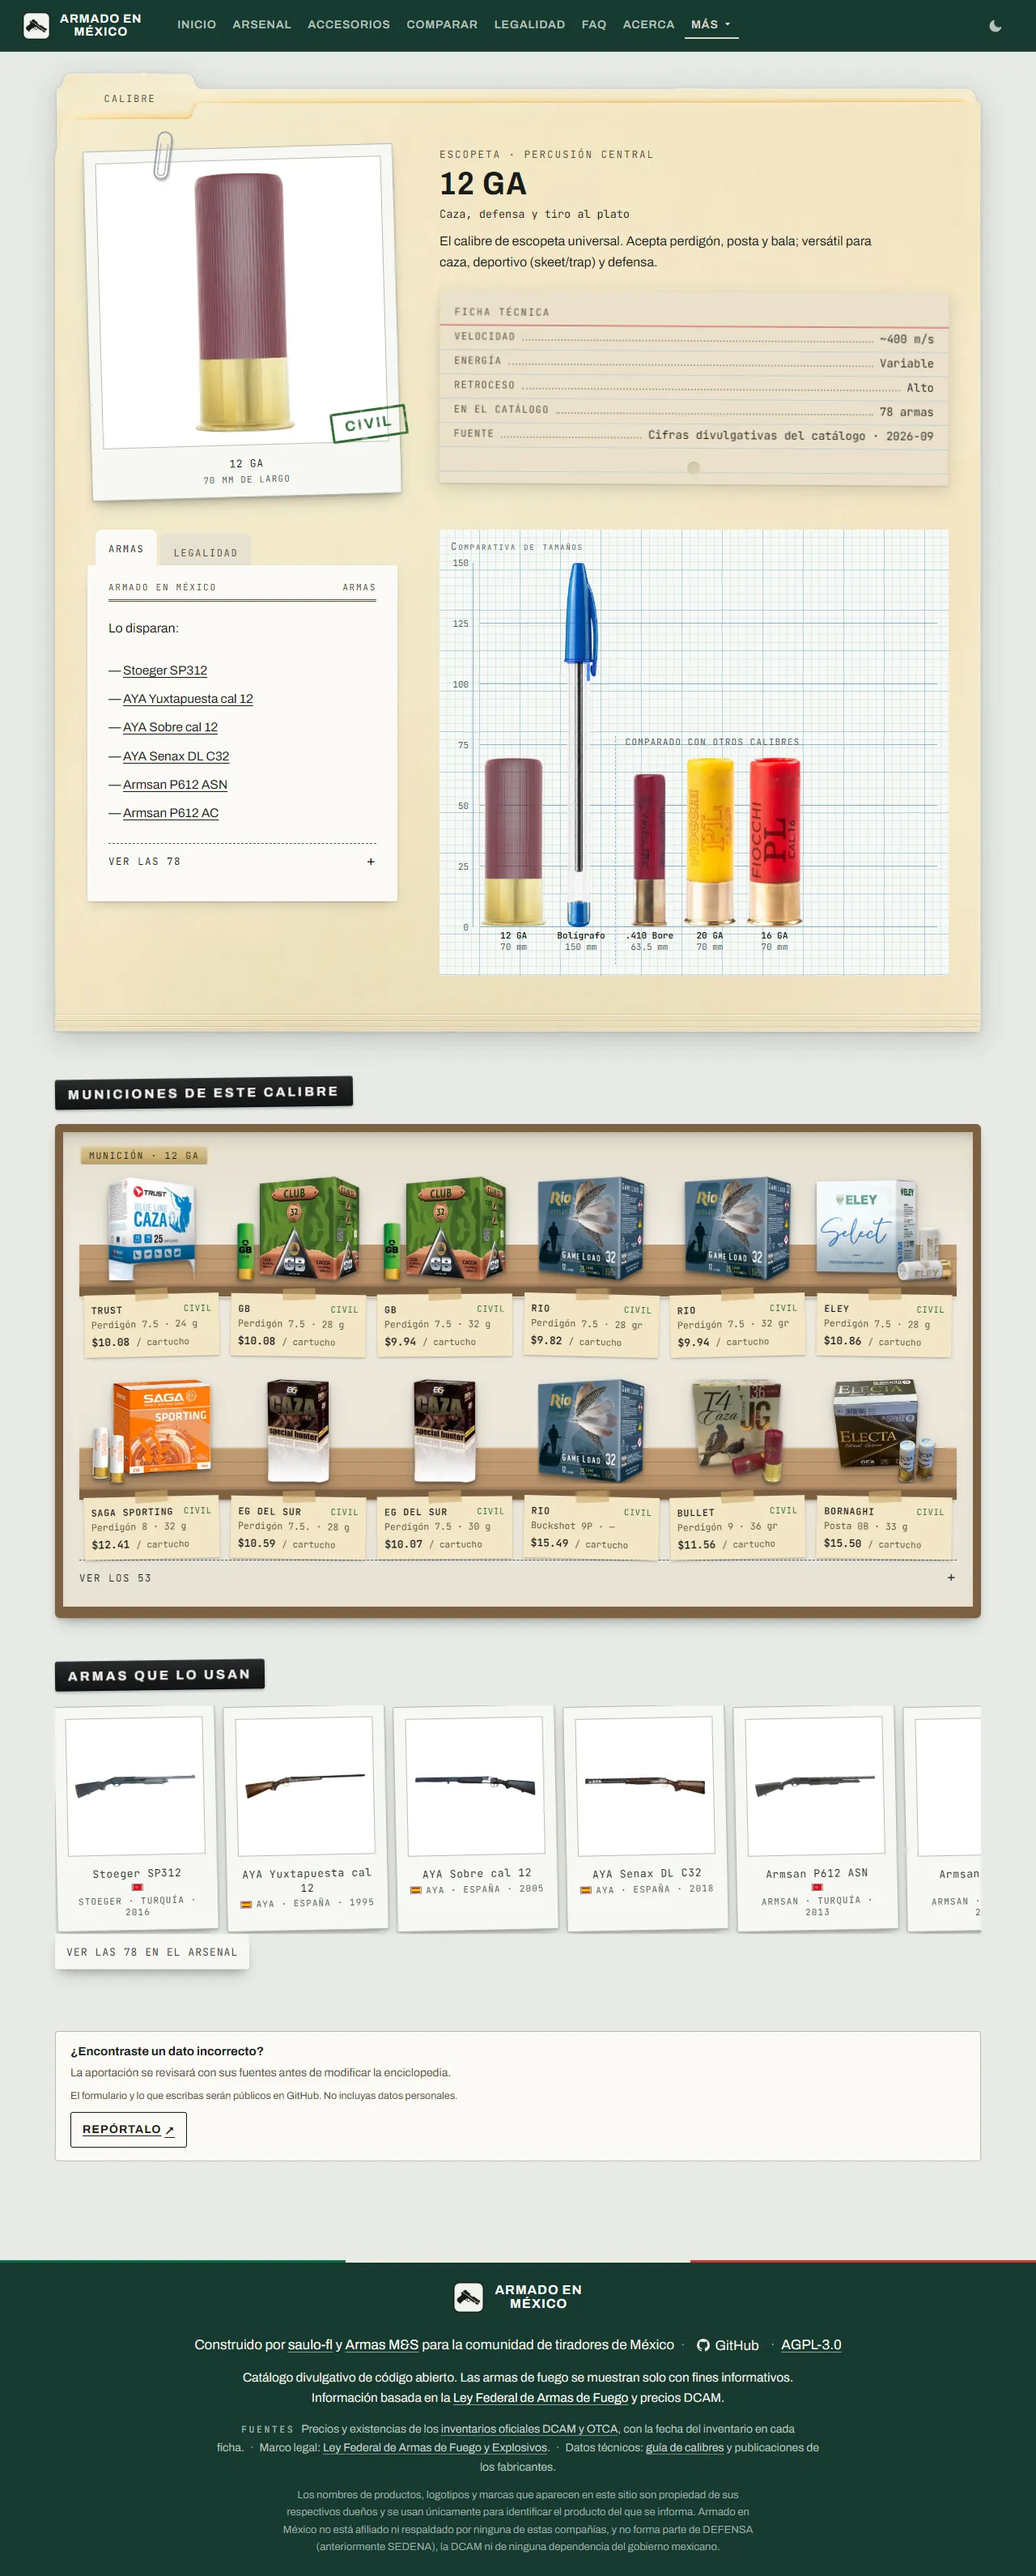
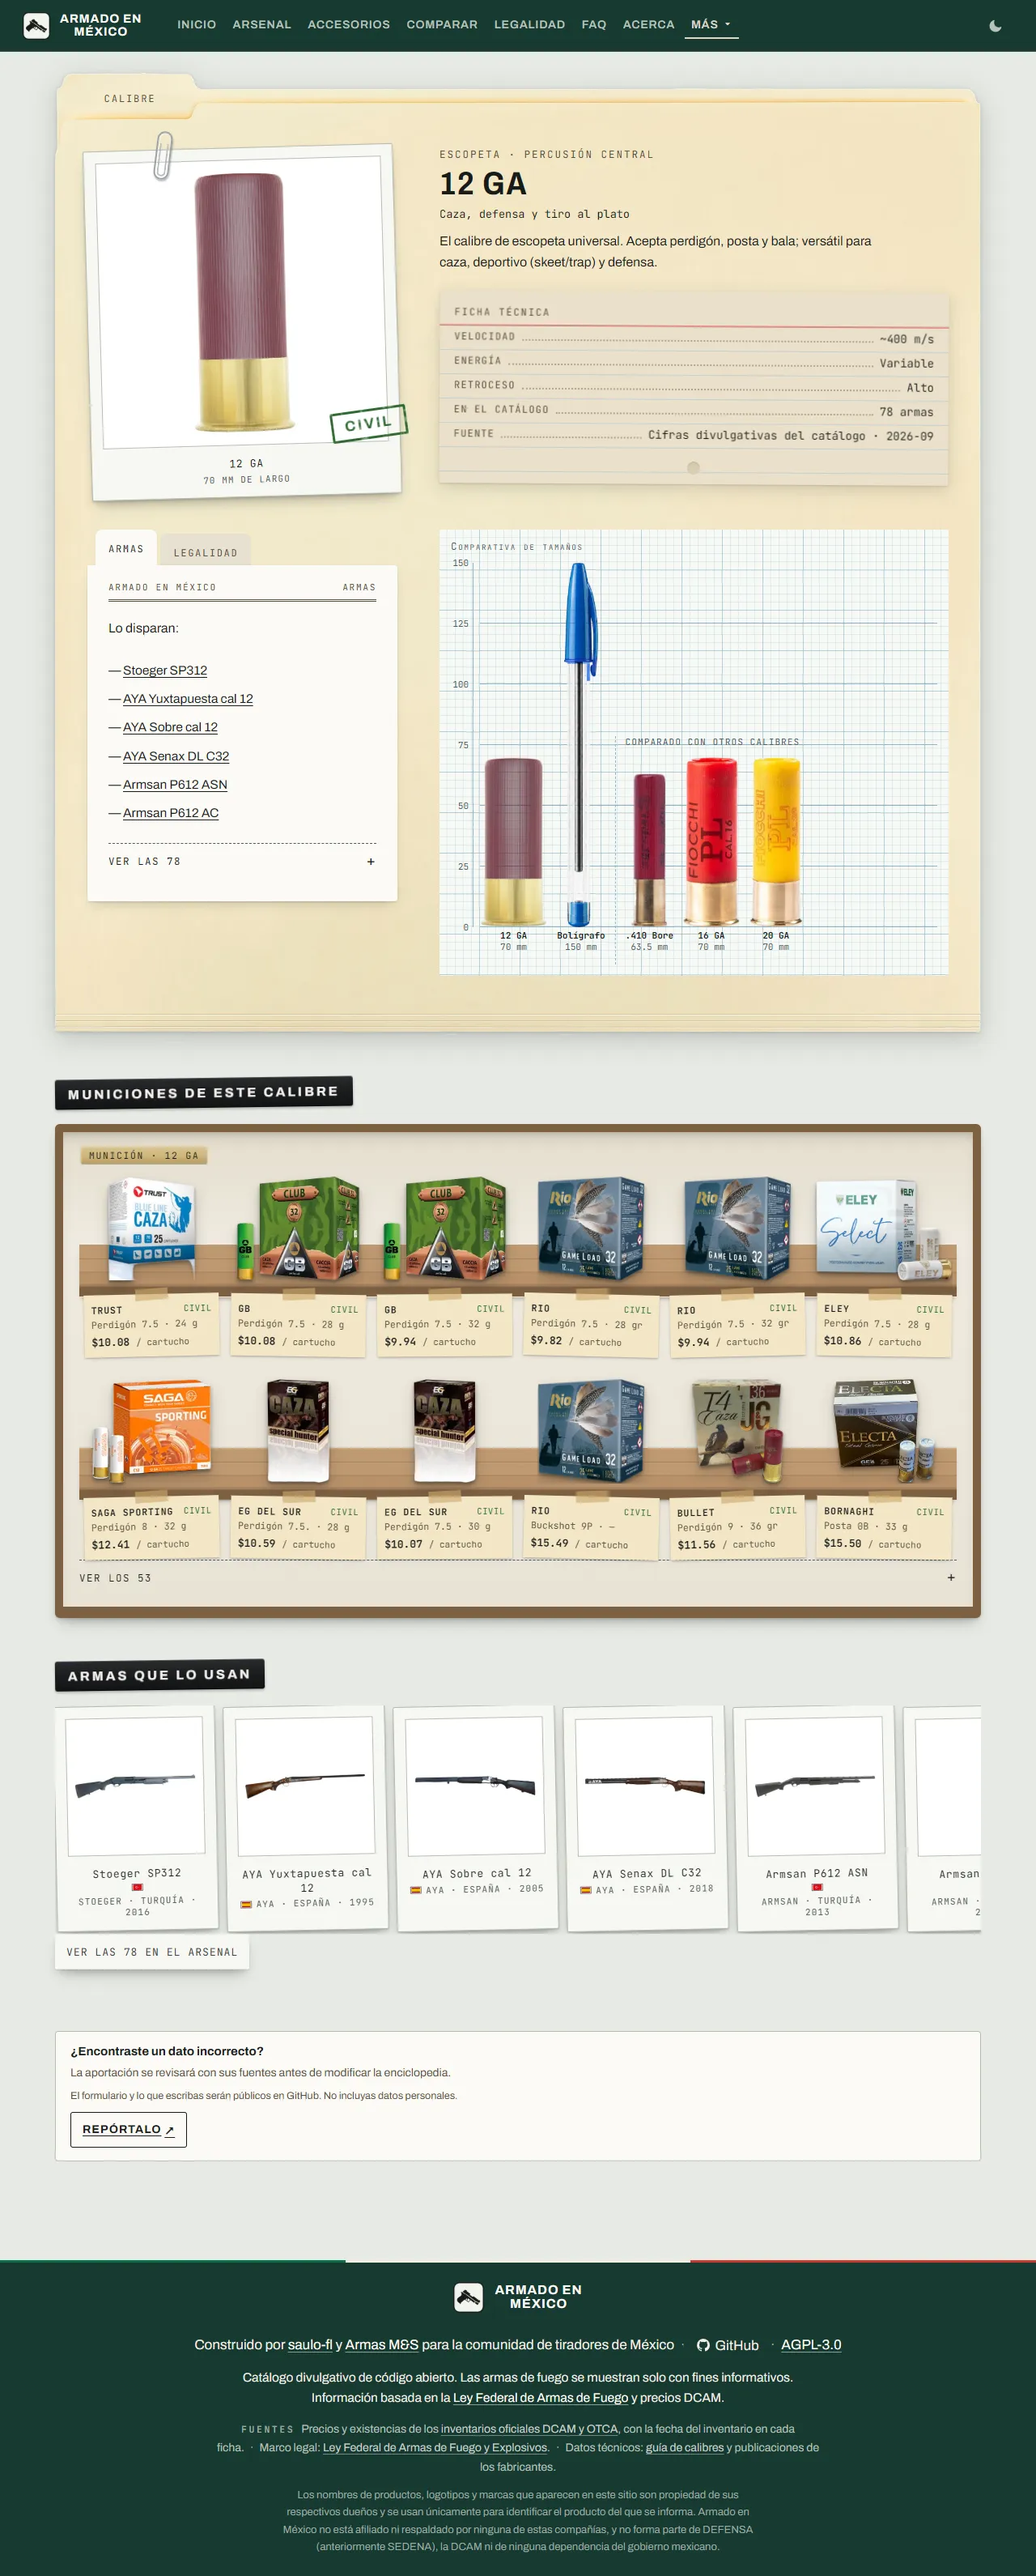
feat(calibres): «Comparado con otros calibres» con máximo 3, los más comunes
Saulo (27-sep, chat): armas largas, pistolas y revólveres se comparan con
máximo 3 calibres de su rama. Elige los que más armas tienen en el catálogo;
se muestran de menor a mayor. Con esto la fila de armas largas deja de
desbordar el papel (.308 → .223 Rem, 5.56x45mm, .243 Winchester).

Pruebas 10 y 11 al día (tope de 3 con mordida). Sonda de 30 fichas × 3
vistas sin fallos. Capturas de Penpot al día.

Changed region(s): [[0.6562, 0.2801, 0.7812, 0.3735]]

diff --git a/src/lib/calibres.js b/src/lib/calibres.js
@@ -30,22 +30,26 @@
   }
 
   /**
-   * Calibres con los que se compara uno en su ficha (Saulo, 27-sep-2026): los de su
-   * misma rama —carabina y rifle son una sola, la de armas largas—, de menor a mayor.
-   * El .22 LR, que es de pistola, revólver y rifle, se compara con el más común de cada
-   * una en el catálogo; el .22 WMR, solo con el .22 LR.
+   * Calibres con los que se compara uno en su ficha (Saulo, 27-sep-2026): hasta 3 de
+   * su misma rama —carabina y rifle son una sola, la de armas largas—, los que más
+   * armas tienen en el catálogo; se muestran de menor a mayor. El .22 LR, que es de
+   * pistola, revólver y rifle, se compara con el más común de cada una; el .22 WMR,
+   * solo con el .22 LR.
    * ponytail: las excepciones son una tabla fija; un calibre anular nuevo va aquí.
-   * @param {Object} cal — calibre de la guía ({ id, clase, mm }).
-   * @param {Array} guia — la guía completa.
-   * @returns {Array} calibres de la guía, sin el propio.
+   * @param {Object} cal — calibre de la guía ({ id, clase, mm, armas }).
+   * @param {Array} guia — la guía completa (amxGuiaCalibres: trae `armas`).
+   * @returns {Array} hasta 3 calibres de la guía, sin el propio.
    */
   function amxComparadosDe(cal, guia) {
     var FIJOS = { '.22 LR': ['9mm Parabellum', '.38 Special', '.308 Winchester'], '.22 WMR': ['.22 LR'] };
     var rama = function (clase) { return clase === 'Carabina' ? 'Rifle' : clase; };
+    var porId = function (a, b) { return a.id < b.id ? -1 : a.id > b.id ? 1 : 0; };
     var lista = FIJOS[cal.id]
       ? guia.filter(function (c) { return FIJOS[cal.id].indexOf(c.id) >= 0; })
-      : guia.filter(function (c) { return c.id !== cal.id && rama(c.clase) === rama(cal.clase); });
-    return lista.slice().sort(function (a, b) { return (a.mm || 0) - (b.mm || 0); });
+      : guia.filter(function (c) { return c.id !== cal.id && rama(c.clase) === rama(cal.clase); })
+        .sort(function (a, b) { return (b.armas || 0) - (a.armas || 0) || porId(a, b); })
+        .slice(0, 3);
+    return lista.slice().sort(function (a, b) { return (a.mm || 0) - (b.mm || 0) || porId(a, b); });
   }
 
   /**

diff --git a/docs/DESIGN.md b/docs/DESIGN.md
@@ -1302,9 +1302,9 @@ cruce de munición en `amxMismoCalibre` (`src/lib/calibres.js`, con prueba); pri
 - **Ficha técnica:** Velocidad, Energía, Retroceso, En el catálogo y, al pie, la fuente de las cifras.
 - **Papel milimétrico: comparativa de tamaños** (corrección de Saulo en Penpot, 27-sep-2026; sustituye a la regla
   de energía, que no se entendía). Eje Y en milímetros; el cartucho a tamaño real y un bolígrafo de 15 cm
-  (`imagenes/boligrafo-15cm.webp`, generado sin marca). En escritorio suma «Comparado con otros calibres»: los de
-  su rama (carabina y rifle juntas); el .22 LR, con 9mm Parabellum, .38 Special y .308 Winchester; el .22 WMR, con
-  el .22 LR (`amxComparadosDe`). También en las escopetas.
+  (`imagenes/boligrafo-15cm.webp`, generado sin marca). En escritorio suma «Comparado con otros calibres»: hasta 3
+  de su rama, los de más armas en el catálogo (carabina y rifle juntas); el .22 LR, con 9mm Parabellum, .38
+  Special y .308 Winchester; el .22 WMR, con el .22 LR (`amxComparadosDe`). También en las escopetas.
 - **Hojas: Armas · Legalidad**, abre en Armas («Lo disparan:», 6 enlaces y «Ver las N»); sin armas, no hay hoja.
 - **Móvil:** cabecera → copia → ficha técnica → milimétrico → hojas. **Escritorio:** copia | cabecera y ficha;
   debajo, hojas | milimétrico, que llena la columna derecha.

diff --git a/docs/superpowers/specs/2026-09-28-ficha-calibre-design.md b/docs/superpowers/specs/2026-09-28-ficha-calibre-design.md
@@ -56,3 +56,6 @@ filas «Papel milimétrico» y «Escopetas» de la tabla de arriba.
 Respuestas: bolígrafo generado con IA y aprobado; carabina y rifle son una rama; el .22 LR se compara con 9mm
 Parabellum, .38 Special y .308 Winchester; el .22 WMR, solo con el .22 LR; la regla de energía se retira («no se
 entiende bien»); la fuente de las cifras pasa a un renglón al pie de la ficha técnica.
+
+**Ajuste (27-sep-2026, chat):** armas largas, pistolas y revólveres se comparan con **máximo 3** calibres de su
+rama: los que más armas tienen en el catálogo (`amxComparadosDe`), mostrados de menor a mayor.
